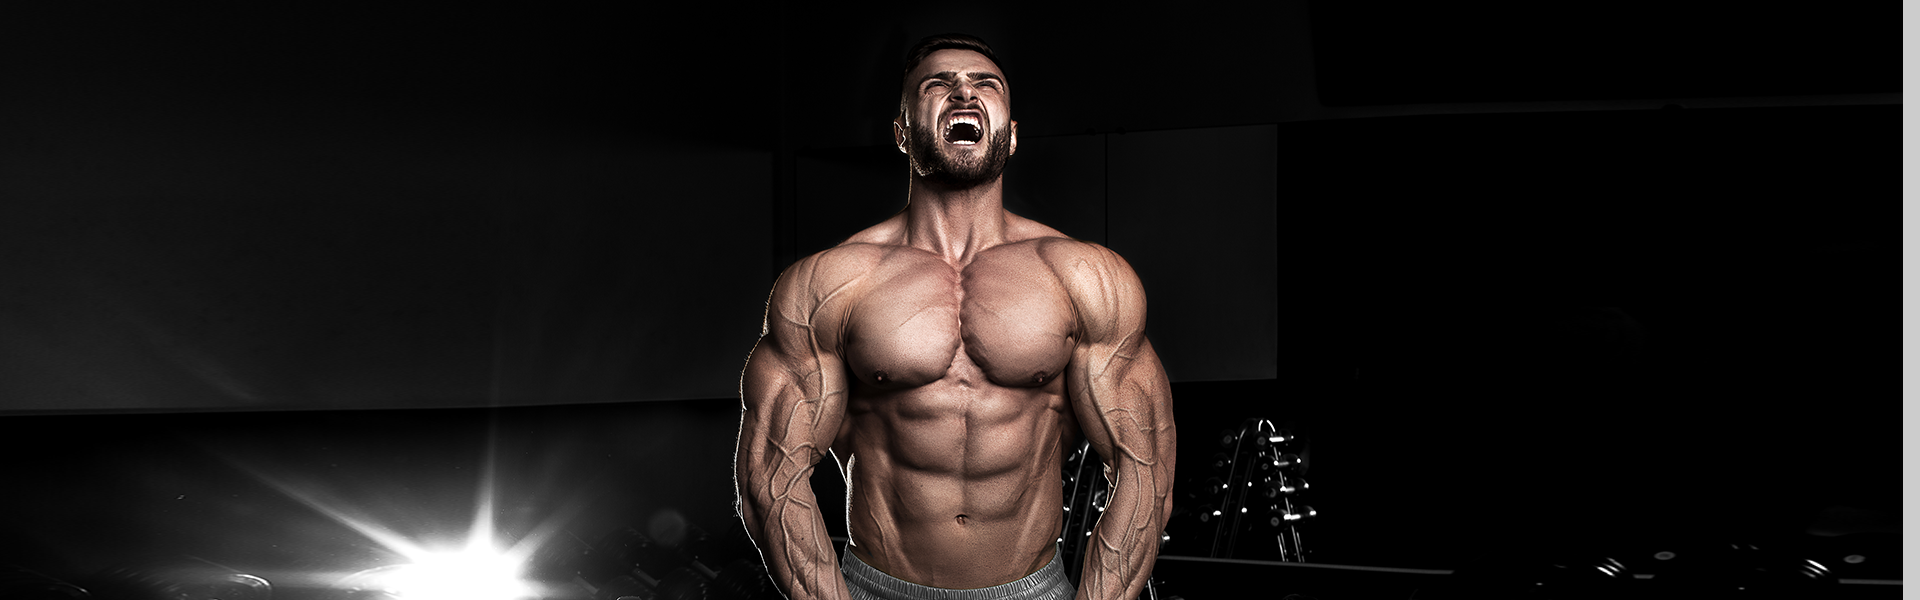
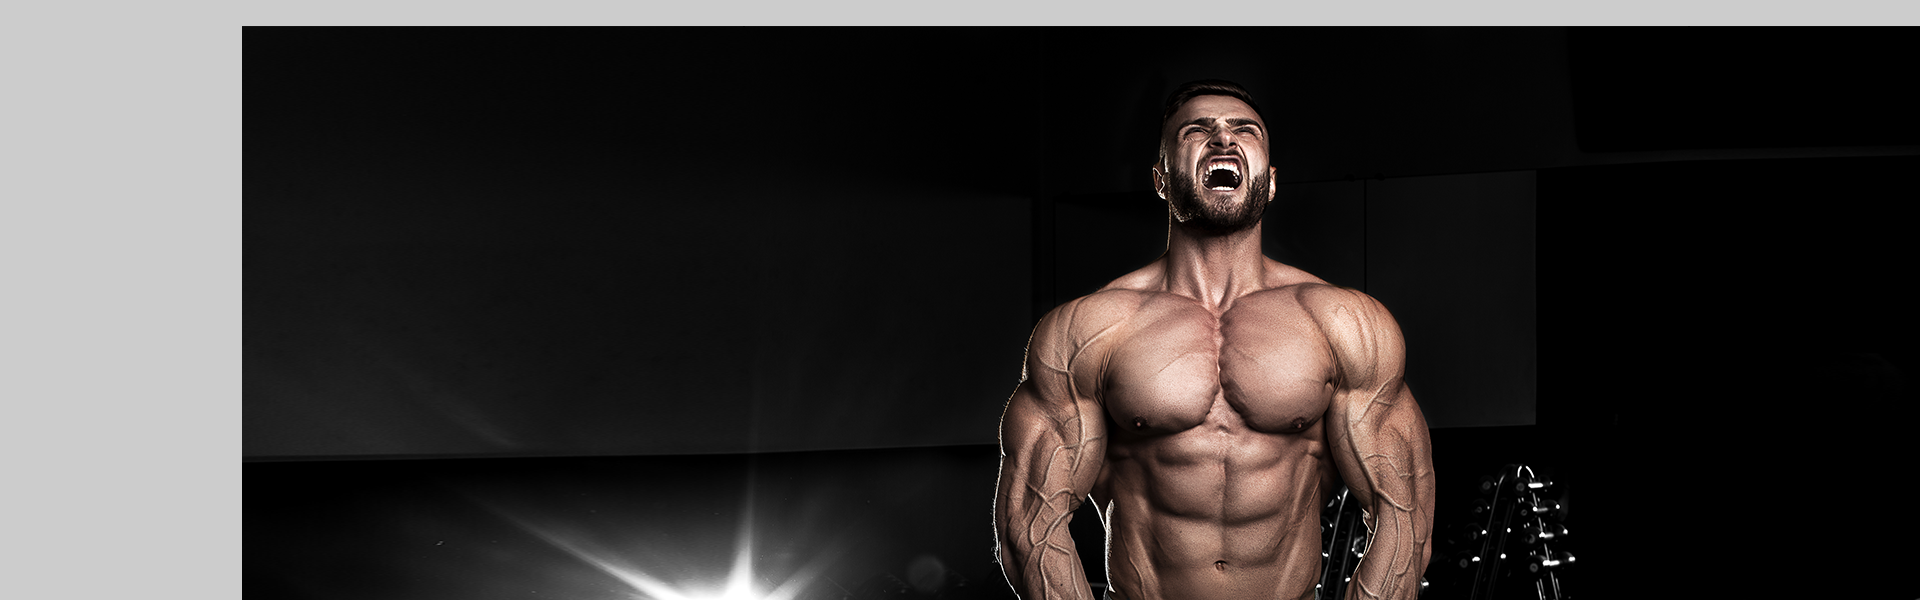
newproject

diff --git a/index.html b/index.html
@@ -26,42 +26,76 @@
 <!---navber starts-->
 
         <nav class="navbar navbar-expand-lg navbar-light position-fixed w-100 py-0">
+
             <div class="container">
-            <a class="navbar-brand" href="#">
+
+            <a class="navbar-brand py-0 position-absolute" href="#">
                 <img src="images/logo.png" alt="logo">
             </a>
+
             <button class="navbar-toggler" type="button" data-bs-toggle="collapse" data-bs-target="#navbarSupportedContent" aria-controls="navbarSupportedContent" aria-expanded="false" aria-label="Toggle navigation">
                 <span class="navbar-toggler-icon"></span>
             </button>
+
             <div class="collapse navbar-collapse" id="navbarSupportedContent">
+
                 <ul class="navbar-nav ms-auto mb-2 mb-lg-0">
-                <li class="nav-item">
-                    <a class="nav-link active text-uppercase " aria-current="page" href="#">Home</a>
-                </li>
-                <li class="nav-item">
-                    <a class="nav-link text-uppercase px-0 osw-reg fs-14" href="#">about us</a>
-                </li>
-                <li class="nav-item">
-                    <a class="nav-link text-uppercase px-0 osw-reg fs-14" href="#">plans</a>
-                </li>
-                <li class="nav-item">
-                    <a class="nav-link text-uppercase px-0 osw-reg fs-14" href="#">team</a>
-                </li>
-                <li class="nav-item">
-                    <a class="nav-link text-uppercase px-0 osw-reg fs-14" href="#">gallery</a>
-                </li>
-                <li class="nav-item">
-                    <a class="nav-link text-uppercase px-0 osw-reg fs-14" href="#">testimonial</a>
-                </li>
-                <li class="nav-item">
-                    <a class="nav-link text-uppercase px-0 osw-reg fs-14" href="#">contact</a>
-                </li>
+
+                    <li class="nav-item">
+
+                        <a class="nav-link active text-uppercase px-0 osw-reg fs-14" aria-current="page" href="#">Home</a>
+                    </li>
+
+                    <li class="nav-item">
+                        <a class="nav-link text-uppercase px-0 osw-reg fs-14" href="#">about us</a>
+                    </li>
+
+                    <li class="nav-item">
+                        <a class="nav-link text-uppercase px-0 osw-reg fs-14" href="#">plans</a>
+                    </li>
+
+                    <li class="nav-item">
+                        <a class="nav-link text-uppercase px-0 osw-reg fs-14" href="#">team</a>
+                    </li>
+
+                    <li class="nav-item">
+                        <a class="nav-link text-uppercase px-0 osw-reg fs-14" href="#">gallery</a>
+                    </li>
+
+                    <li class="nav-item">
+                        <a class="nav-link text-uppercase px-0 osw-reg fs-14" href="#">testimonial</a>
+                    </li>
+
+                    <li class="nav-item">
+                        <a class="nav-link text-uppercase px-0 osw-reg fs-14" href="#">contact</a>
+                    </li>
                 </ul>
             </div>
             </div>
         </nav>
 
 <!---navber ends-->
+
+
+<!-- banner start -->
+
+<section id="banner">
+    <div class="banner-slider">
+        <div class="banner-item bg1">
+            <div class="container">
+                <div class="row">
+                    <div class="col-lg-6">
+                        <div class="banner-text">
+                            <h3 class="mb-0 text-white text-uppercase">time to start</h3>
+                        </div>
+                    </div>
+                </div>
+            </div>
+        </div>
+    </div>
+</section>
+
+<!-- banner ends -->
 
 
 

diff --git a/css/style.css b/css/style.css
@@ -138,7 +138,6 @@ ul{
     }
 
 
-
     .navbar-light .navbar-nav .nav-link::after{
         content:'' ;
         width: 0%;
@@ -161,4 +160,20 @@ ul{
 
 /* ===================
     navber css ends
+=================== */
+    #banner .bg1{
+        background: url(../images/banner1.png) no-repeat center / cover;
+    }
+
+/* ===================
+    banner css start
+=================== */
+
+
+
+
+
+
+/* ===================
+    banner css ends
 =================== */ 
